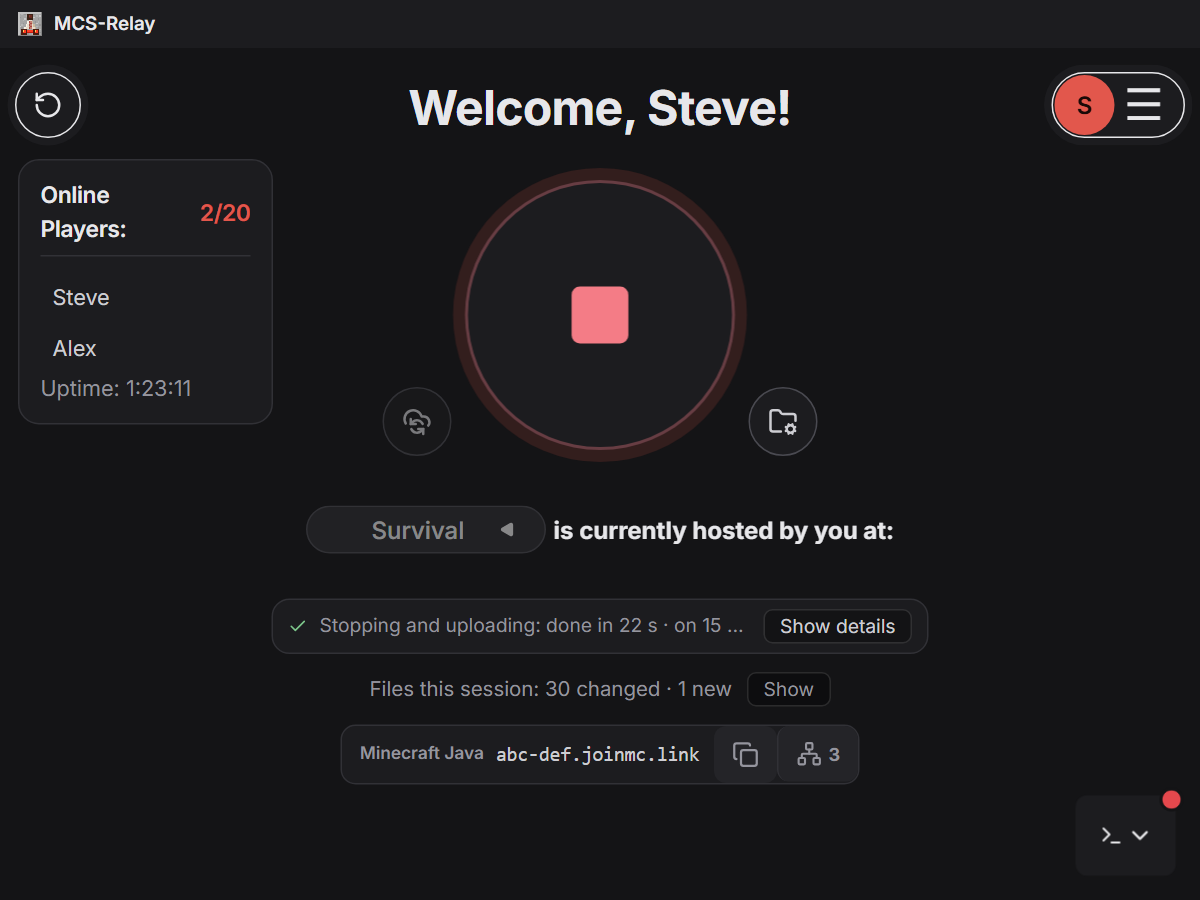
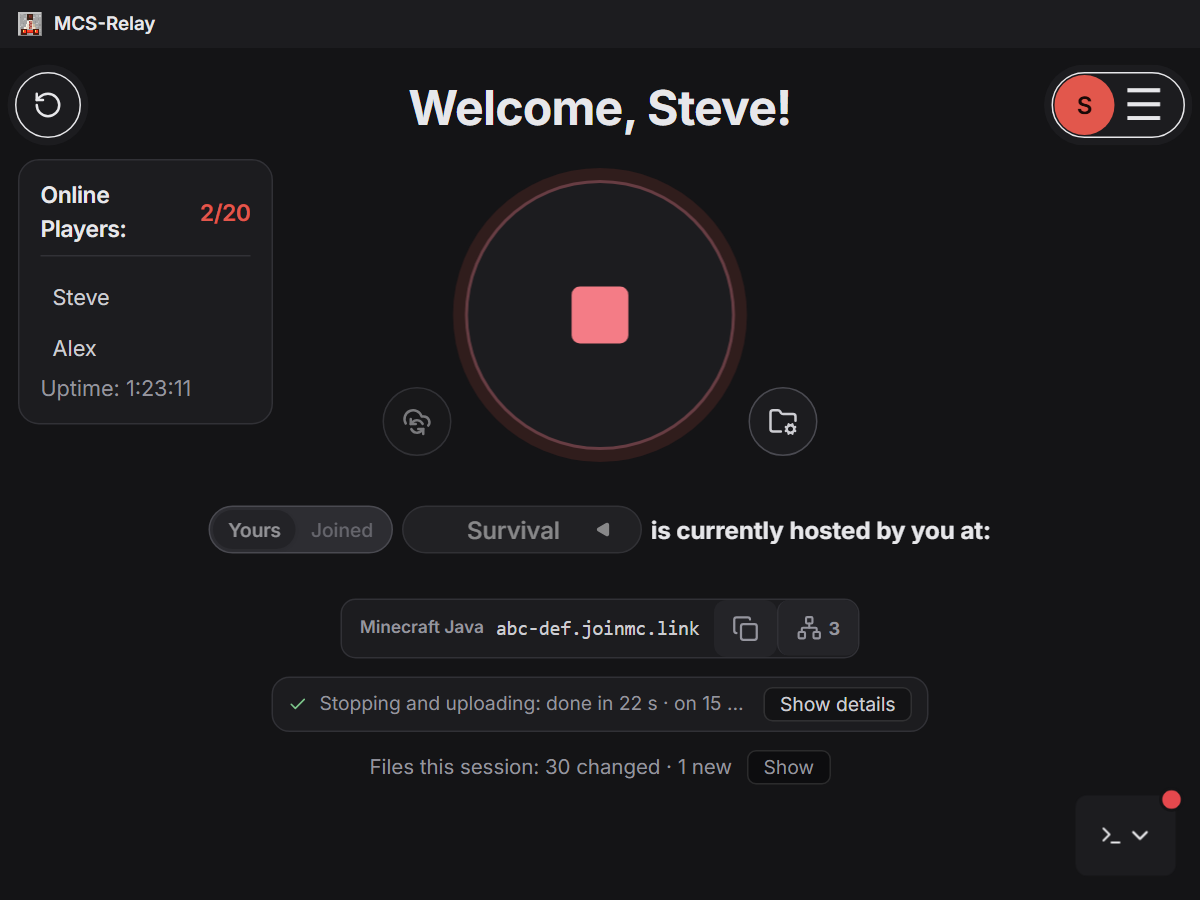
Website: a Features section and screenshots of the current app
The home page gets a Features section: creating a server (with the Java
download), playit.gg built in, and Server settings (server.properties and
the whitelist), each beside a screenshot in the visitor's light or dark
theme, and six short cards for the rest. "How it works" and the hero
screenshots match the current app, and the README shows the three new
screenshots and mentions the automatic backup.

Changed region(s): [[0.2775, 0.7467, 0.7708, 0.8711], [0.1542, 0.56, 0.8325, 0.6222], [0.2467, 0.6844, 0.74, 0.7156]]

diff --git a/website/index.html b/website/index.html
@@ -17,6 +17,7 @@
             </a>
             <nav class="site-nav">
                 <a href="#how-it-works">How it works</a>
+                <a href="#features">Features</a>
                 <a href="#your-data">Your Google data</a>
                 <a href="privacy.html">Privacy policy</a>
                 <a href="https://github.com/yeet30/MCS-Relay">GitHub</a>
@@ -56,7 +57,7 @@
                     <div class="card">
                         <span class="step">1</span>
                         <h3>Create a server</h3>
-                        <p>MCS-Relay makes a server folder in your Google Drive. Invite your friends; Google Drive emails them a link to join.</p>
+                        <p>Name it, and MCS-Relay downloads the server or uses a server folder you already have. Invite your friends; Google Drive emails them a link to join.</p>
                     </div>
                     <div class="card">
                         <span class="step">2</span>
@@ -66,12 +67,97 @@
                     <div class="card">
                         <span class="step">3</span>
                         <h3>Play</h3>
-                        <p>Friends join with your address. With playit.gg they can join from anywhere without port forwarding.</p>
+                        <p>Friends join with the address MCS-Relay shows everyone. With playit.gg linked, they can join from anywhere without port forwarding.</p>
                     </div>
                     <div class="card">
                         <span class="step">4</span>
                         <h3>Press Stop</h3>
                         <p>The world is uploaded and the server is free again. Next time, any of you can host it.</p>
+                    </div>
+                </div>
+            </div>
+        </section>
+
+        <section id="features">
+            <div class="wrap">
+                <h2>Features</h2>
+                <div class="feature-row">
+                    <div class="feature-text">
+                        <h3>A new server in a few steps</h3>
+                        <p>
+                            Name it, pick vanilla, Paper or Fabric and a version, and MCS-Relay downloads it from the official
+                            source (Mojang, PaperMC, FabricMC) and checks it. Or use a server folder you already have, Forge and
+                            NeoForge included.
+                        </p>
+                        <p>
+                            If your PC's Java is too old for the server, MCS-Relay downloads the right one for it (Eclipse
+                            Temurin, from Adoptium). Nothing to install by hand.
+                        </p>
+                    </div>
+                    <picture>
+                            <source srcset="feature-create-dark.png" media="(prefers-color-scheme: dark)">
+                            <img class="screenshot" src="feature-create.png" alt="Creating a server: start a new one or use your own folder, then pick vanilla, Paper or Fabric and a version." width="1200" height="900" loading="lazy">
+                        </picture>
+                </div>
+                <div class="feature-row reverse">
+                    <div class="feature-text">
+                        <h3>Friends join from anywhere</h3>
+                        <p>
+                            Link your free <a href="https://playit.gg">playit.gg</a> account once: you sign in on playit.gg's own
+                            page, and MCS-Relay does the rest. It downloads playit.gg, makes your Minecraft tunnel and starts it
+                            whenever you host.
+                        </p>
+                        <p>
+                            Everyone in the server sees the address to join with, whoever hosts. Friends on your own network can
+                            also join without it. Phone hotspots often block playit.gg, so host from a normal internet connection.
+                        </p>
+                    </div>
+                    <picture>
+                            <source srcset="feature-playit-dark.png" media="(prefers-color-scheme: dark)">
+                            <img class="screenshot" src="feature-playit.png" alt="Server settings, Hosting tab: playit.gg linked, with the address friends join with and a copy button." width="1200" height="900" loading="lazy">
+                        </picture>
+                </div>
+                <div class="feature-row">
+                    <div class="feature-text">
+                        <h3>Server settings in plain words</h3>
+                        <p>
+                            Change server.properties with switches and boxes: the message in the server list, how many players,
+                            game mode, difficulty, view distance and more, and every other line of the file too.
+                        </p>
+                        <p>
+                            Turn the whitelist on and add your friends by name. Memory, Java and automatic backups are in the
+                            same place.
+                        </p>
+                    </div>
+                    <picture>
+                            <source srcset="feature-settings-dark.png" media="(prefers-color-scheme: dark)">
+                            <img class="screenshot" src="feature-settings.png" alt="Server settings, server.properties tab: the server list message, max players, whitelist and online mode as plain settings." width="1200" height="900" loading="lazy">
+                        </picture>
+                </div>
+                <div class="cards feature-cards">
+                    <div class="card">
+                        <h3>One host at a time</h3>
+                        <p>A server is reserved while someone hosts it, so two people never run it at once and overwrite each other's world.</p>
+                    </div>
+                    <div class="card">
+                        <h3>Only changes are sent</h3>
+                        <p>After the first upload, a session moves just the files that changed. Uploads can be paused and continued, even after a crash.</p>
+                    </div>
+                    <div class="card">
+                        <h3>No guessing</h3>
+                        <p>If your copy and the cloud both changed, MCS-Relay shows you and you choose which to keep.</p>
+                    </div>
+                    <div class="card">
+                        <h3>World backups</h3>
+                        <p>Named backups on your PC or in the cloud for everyone, and an automatic one while you host. Restoring backs up the current world first.</p>
+                    </div>
+                    <div class="card">
+                        <h3>Run it your way</h3>
+                        <p>Invite and remove members, leave files out of the sync, sync without playing, and use the server console from the app.</p>
+                    </div>
+                    <div class="card">
+                        <h3>Lives in the tray</h3>
+                        <p>Notifications and a sound when a start or stop finishes, Light, Mint and Dark themes, and automatic updates.</p>
                     </div>
                 </div>
             </div>

diff --git a/website/style.css b/website/style.css
@@ -257,6 +257,48 @@ ul.plain li {
     margin: 4px 0;
 }
 
+/* ---------------------------------------------------------------- features */
+
+/* A screenshot beside its text, alternating sides; text above the picture on a phone. */
+.feature-row {
+    display: grid;
+    grid-template-columns: 1fr 1.25fr;
+    align-items: center;
+    gap: 28px;
+    margin-bottom: 36px;
+}
+
+.feature-row.reverse .feature-text {
+    order: 2;
+}
+
+.feature-text h3 {
+    margin: 0 0 8px;
+    font-size: 1.25rem;
+}
+
+.feature-text p {
+    margin: 0 0 10px;
+    color: var(--muted);
+}
+
+/* Six cards: three per row on a wide screen, so no row is left half empty. */
+.feature-cards {
+    grid-template-columns: repeat(auto-fit, minmax(260px, 1fr));
+    margin-top: 8px;
+}
+
+@media (max-width: 720px) {
+    .feature-row {
+        grid-template-columns: 1fr;
+        gap: 14px;
+    }
+
+    .feature-row.reverse .feature-text {
+        order: 0;
+    }
+}
+
 /* ---------------------------------------------------------------- privacy policy */
 
 .policy {

diff --git a/README.md b/README.md
@@ -60,11 +60,18 @@ Google Drive folder that you all share, and whoever wants to play hosts it on th
 - **The right Java**: when a server needs a newer Java than your PC has, MCS-Relay downloads it for that server
   (Eclipse Temurin, from Adoptium), also when hosting a friend's server shows that your Java is too old.
 - **World backups**: name a backup, keep it on your PC or put it in the cloud for everyone, and restore any of them;
-  the current world is backed up first. While you host, the server pauses saving for a moment.
+  the current world is backed up first. While you host, one automatic backup is kept up to date every 5 to 30
+  minutes, copying only what changed.
 - **Lives in the tray**: notifications and a sound when a start or stop finishes or fails, Light / Mint / Dark themes,
   and automatic updates.
 - **Problem reports**: Settings → Report a problem sends your description and the app's log to the developer
   through your own Google Drive, or saves them as a file.
+
+<p align="center">
+  <img src="website/feature-create.png" alt="Creating a server: start a new one or use your own folder, then pick vanilla, Paper or Fabric and a version" width="32%">
+  <img src="website/feature-playit.png" alt="Server settings, Hosting tab: playit.gg linked, with the address friends join with" width="32%">
+  <img src="website/feature-settings.png" alt="Server settings, server.properties tab: common settings as switches and boxes" width="32%">
+</p>
 
 ## Getting started
 
